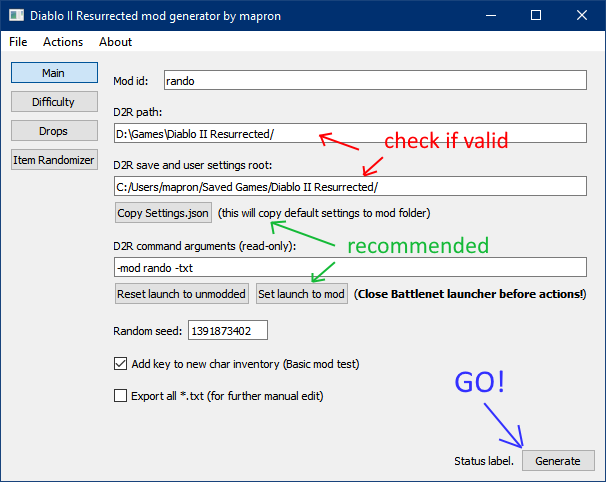
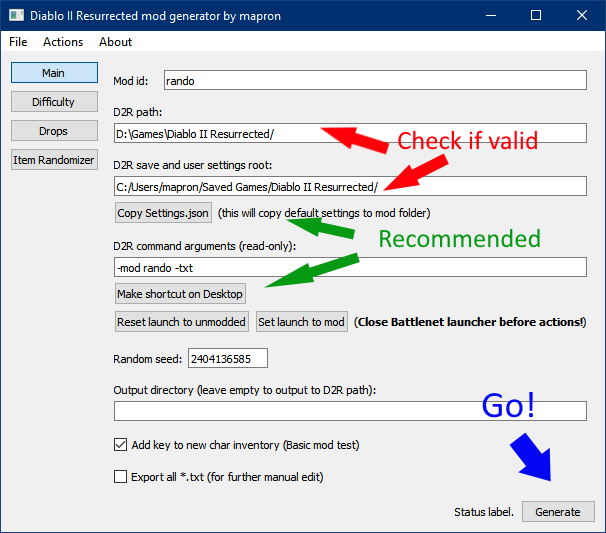
Added way to create shortcut for a mod

Changed region(s): [[0.0, 0.0, 1.0, 1.0], [0.2673, 0.1245, 0.9802, 0.1867], [0.2079, 0.8714, 0.5347, 0.9025]]

diff --git a/src/MainConfigPage.cpp b/src/MainConfigPage.cpp
@@ -5,6 +5,7 @@
  */
 #include "MainConfigPage.hpp"
 #include "Utils.hpp"
+#include "WinSpecific.hpp"
 
 #include <QLayout>
 #include <QLineEdit>
@@ -61,6 +62,7 @@ struct MainConfigPage::Impl {
     QLineEdit* d2rSaves;
     QLineEdit* d2rArgs;
     QLineEdit* seed;
+    QLineEdit* outPath;
     QCheckBox* addKeys;
     QCheckBox* exportAll;
 };
@@ -87,6 +89,8 @@ MainConfigPage::MainConfigPage(QWidget* parent)
     m_impl->seed->setValidator(validatorSeed);
     m_impl->seed->setMaximumWidth(80);
 
+    m_impl->outPath = new QLineEdit(this);
+
     m_impl->addKeys = new QCheckBox("Add key to new char inventory (Basic mod test)", this);
     m_impl->addKeys->setChecked(true);
 
@@ -97,6 +101,7 @@ MainConfigPage::MainConfigPage(QWidget* parent)
 
     QPushButton* launchArgs      = new QPushButton("Set launch to mod", this);
     QPushButton* launchArgsClear = new QPushButton("Reset launch to unmodded", this);
+    QPushButton* makeShortcut    = new QPushButton("Make shortcut on Desktop", this);
 
     // layouts
 
@@ -138,6 +143,10 @@ MainConfigPage::MainConfigPage(QWidget* parent)
         mainLayout->addLayout(rowLayout);
         rowLayout->addWidget(new QLabel("D2R command arguments (read-only):", this));
         rowLayout->addWidget(m_impl->d2rArgs);
+        QHBoxLayout* rowLayoutButtonShortcut = new QHBoxLayout();
+        rowLayout->addLayout(rowLayoutButtonShortcut);
+        rowLayoutButtonShortcut->addWidget(makeShortcut);
+        rowLayoutButtonShortcut->addStretch();
         QHBoxLayout* rowLayoutButtons = new QHBoxLayout();
         rowLayout->addLayout(rowLayoutButtons);
         rowLayoutButtons->addWidget(launchArgsClear);
@@ -153,6 +162,14 @@ MainConfigPage::MainConfigPage(QWidget* parent)
         rowLayout->addWidget(new QLabel("Random seed:", this));
         rowLayout->addWidget(m_impl->seed);
         rowLayout->addStretch();
+    }
+
+    {
+        QVBoxLayout* rowLayout = new QVBoxLayout();
+        rowLayout->setSpacing(5);
+        mainLayout->addLayout(rowLayout);
+        rowLayout->addWidget(new QLabel("Output directory (leave empty to output to D2R path):", this));
+        rowLayout->addWidget(m_impl->outPath);
     }
 
     {
@@ -190,6 +207,11 @@ MainConfigPage::MainConfigPage(QWidget* parent)
     connect(launchArgs, &QPushButton::clicked, this, [this] {
         setLaunch(m_impl->d2rArgs->text());
     });
+    connect(makeShortcut, &QPushButton::clicked, this, [this] {
+        auto env  = getEnv();
+        auto desk = ensureTrailingSlash(QStandardPaths::writableLocation(QStandardPaths::DesktopLocation));
+        createShortCut(desk + "Diablo II - " + env.modName + " Mod", env.d2rPath + "D2R.exe", m_impl->d2rArgs->text());
+    });
 
     m_impl->modName->setText("rando");
 }
@@ -204,6 +226,9 @@ GenerationEnvironment MainConfigPage::getEnv() const
     env.exportAllTables = m_impl->exportAll->isChecked();
     env.appData         = ensureTrailingSlash(QStandardPaths::writableLocation(QStandardPaths::DataLocation));
     env.seed            = m_impl->seed->text().toInt();
+    env.outPath         = ensureTrailingSlash(m_impl->outPath->text());
+    if (env.outPath.isEmpty())
+        env.outPath = env.d2rPath;
     return env;
 }
 

diff --git a/src/WinSpecific.cpp b/src/WinSpecific.cpp
@@ -1,0 +1,87 @@
+/*
+ * Copyright (C) 2022 Smirnov Vladimir / mapron1@gmail.com
+ * SPDX-License-Identifier: MIT
+ * See LICENSE file for details.
+ */
+#ifndef _UNICODE
+#define _UNICODE
+#endif
+#ifndef UNICODE
+#define UNICODE
+#endif
+#include "WinSpecific.hpp"
+#include "Utils.hpp"
+
+#include <QDebug>
+#include <QFileInfo>
+
+#include <qt_windows.h>
+
+#include <sys/types.h>
+#include <direct.h>
+#include <winioctl.h>
+#include <objbase.h>
+#include <shlobj.h>
+#include <accctrl.h>
+#include <cassert>
+
+namespace {
+
+std::wstring winFilename(QString filename)
+{
+    return filename.replace(QLatin1Char('/'), QLatin1Char('\\')).toStdWString();
+}
+
+}
+
+bool createShortCut(const QString& from, const QString& to, const QString& extraArgs)
+{
+    qDebug() << "Creating shortcut '" << from << "' -> '" << to << "'";
+    auto linkPath = from + ".lnk";
+
+    QString destDir = QFileInfo(to).absolutePath();
+
+    IShellLink* psl          = nullptr;
+    bool        neededCoInit = false;
+
+    HRESULT hres = CoCreateInstance(CLSID_ShellLink, NULL, CLSCTX_INPROC_SERVER, IID_IShellLink, (void**) &psl);
+
+    if (hres == CO_E_NOTINITIALIZED) { // COM was not initialized
+        neededCoInit = true;
+        CoInitialize(NULL);
+        hres = CoCreateInstance(CLSID_ShellLink, NULL, CLSCTX_INPROC_SERVER, IID_IShellLink, (void**) &psl);
+    }
+    MODGEN_SCOPE_EXIT([&psl, neededCoInit] {
+        if (psl)
+            psl->Release();
+        if (neededCoInit)
+            CoUninitialize();
+    });
+    if (!SUCCEEDED(hres))
+        return false;
+    if (!SUCCEEDED(psl->SetPath(winFilename(to).c_str())))
+        return false;
+    if (!SUCCEEDED(psl->SetWorkingDirectory(winFilename(destDir).c_str())))
+        return false;
+
+    if (!extraArgs.isEmpty() && !SUCCEEDED(psl->SetArguments(winFilename(extraArgs).c_str())))
+        return false;
+
+    IPersistFile* ppf = nullptr;
+    hres              = psl->QueryInterface(IID_IPersistFile, (void**) &ppf);
+    MODGEN_SCOPE_EXIT([&ppf] {
+        if (ppf)
+            ppf->Release();
+    });
+    if (!SUCCEEDED(hres))
+        return false;
+
+    hres     = ppf->Save(linkPath.toStdWString().c_str(), TRUE);
+    auto err = GetLastError();
+    if (!SUCCEEDED(hres)) {
+        qInfo() << "Creating shortcut '" << from << "' failed with code=" << err;
+        return false;
+    }
+
+    return true;
+}

diff --git a/src/MainWindow.cpp b/src/MainWindow.cpp
@@ -154,7 +154,7 @@ void MainWindow::generate(const GenerationEnvironment& env)
         qWarning() << "D2R path is empty";
         return;
     }
-    const QString modRoot = env.d2rPath + QString("mods/%1/%1.mpq/").arg(env.modName);
+    const QString modRoot = env.outPath + QString("mods/%1/%1.mpq/").arg(env.modName);
     m_status->setText("Start...");
     m_status->repaint();
     qDebug() << "started generation in " << modRoot;

diff --git a/src/WinSpecific.hpp b/src/WinSpecific.hpp
@@ -1,0 +1,10 @@
+/*
+ * Copyright (C) 2022 Smirnov Vladimir / mapron1@gmail.com
+ * SPDX-License-Identifier: MIT
+ * See LICENSE file for details.
+ */
+#pragma once
+
+#include <QString>
+
+bool createShortCut(const QString& from, const QString& to, const QString& extraArgs);

diff --git a/src/CommonTypes.hpp b/src/CommonTypes.hpp
@@ -103,6 +103,7 @@ struct GenerationEnvironment {
     QString  modName;
     QString  d2rPath;
     QString  appData;
+    QString  outPath;
     bool     exportAllTables;
     uint32_t seed;
 };

diff --git a/README.md b/README.md
@@ -16,12 +16,14 @@ Main Window
 3. Run modgen.exe (see the screenshot);
 4. Check if "D2R path" is filled correctly; if not, edit it manually to point "Diablo II Resurrected/" folder;
 5. Optional; press "Copy Settings.json" to initialize new mod with your default game settings (music volume, etc);
-6. Optional and recommended; close Battlenet client, press "Set launch to mod" to setup game launch in modded offline mode. You need to do it once for specific mod;
-7. Launch Battlenet; if you skiped previous step, go to "Settings near Play button" - "Game Settings" - "Diablo II Resurrected" - "Additional command line arguments" and paste string from "D2R commandline";
-8. Press "Generate" button;
-9. Launch the game and go to offline mode. Create a new character and start;
+6. Now you need to setup modded launch of D2R - that can be done either by creating the shortcut or modifying launch option in BNet launcher, choose what is suitable for you:  
+a) Press "Make shortcut on Desktop", that will make "Diablo II - modname Mod" link on your Desktop;  
+b) OR copy value from "D2R command arguments" and create shortcut by yourself, pointing to D2R.exe and use this as extra args;  
+c) OR close Battlenet client, press "Set launch to mod" to setup game launch as modded by default and launch BNet again;  
+d) OR make it manually, by going  "Settings near Play button" - "Game Settings" - "Diablo II Resurrected" - "Additional command line arguments" and paste string from "D2R commandline"  
+7. Press "Generate" button;
+9. Launch the game and go to offline tab mode. Create a new character and start;
 10. If you done all correctly, character will have chest key in the inventory after creation.  
-
 
 Now, go and play around with other settings, click "Generate" and restart D2R again!  
 Note: all you offline character still exist in non-modded save folder.  
